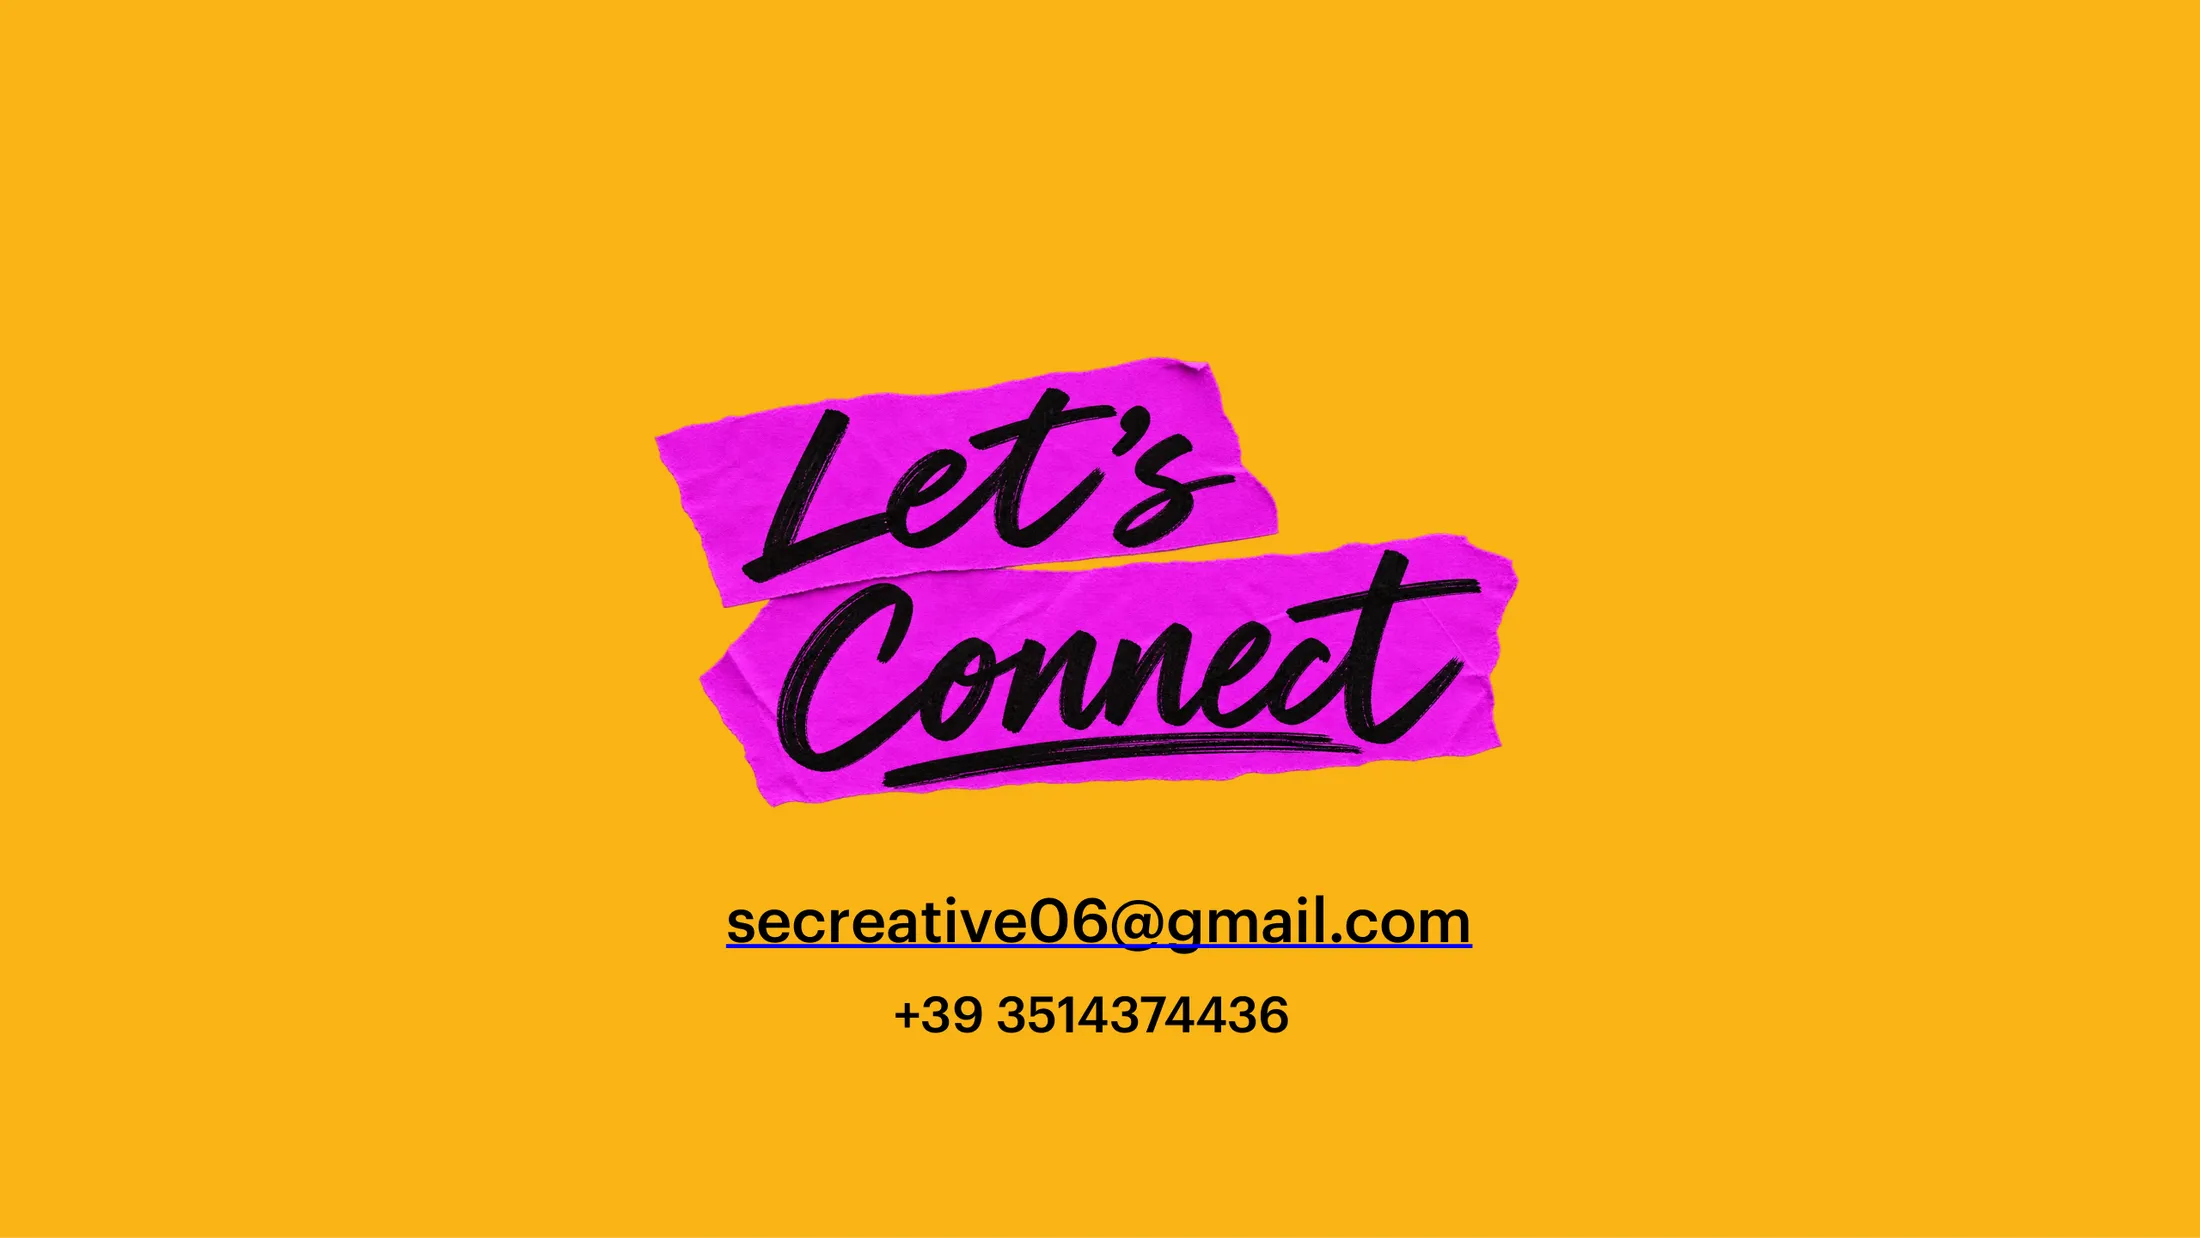
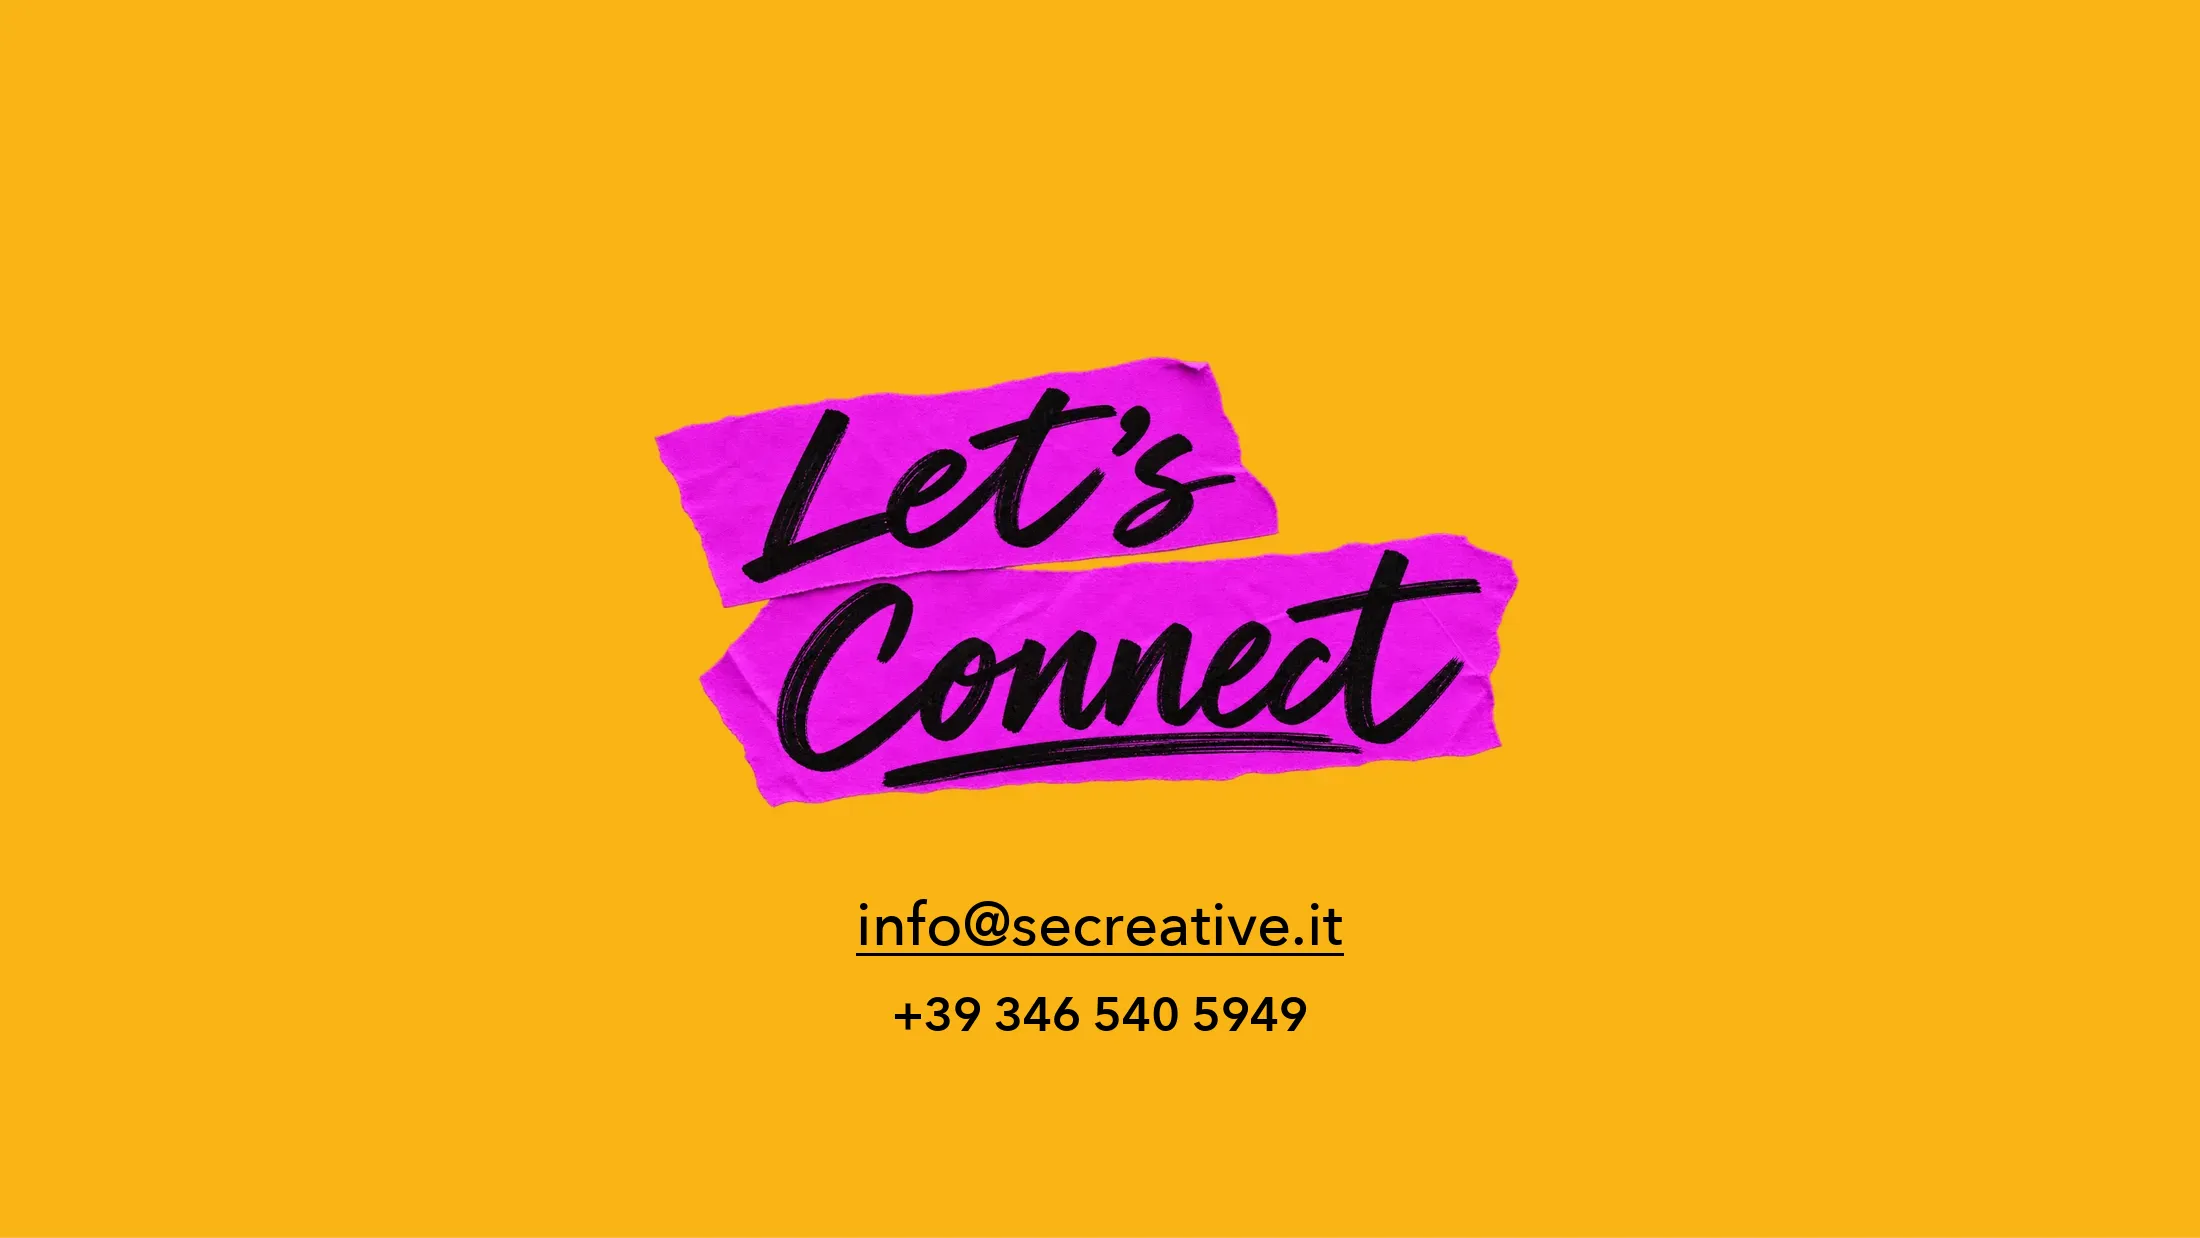
feat: numero nuovo +39 346 540 5949
Il numero sta in studio.ts e tutto il sito lo legge da li': telefono
cliccabile, WhatsApp (anche quello col messaggio precompilato) e i dati
per i motori di ricerca. Aggiornato anche il vecchio layout del deck,
che lo aveva scritto a mano.

L'ultima slide del Keynote lo mostrava stampato dentro l'immagine,
insieme all'indirizzo gmail: riscritti entrambi sulla slide, con i
caratteri dell'originale. Chi apre /deck non vede piu' recapiti vecchi.

Changed region(s): [[0.3091, 0.706, 0.68, 0.8595]]

diff --git a/src/data/studio.ts b/src/data/studio.ts
@@ -27,11 +27,11 @@ export const studio = {
      consegna le richieste. Nel Keynote (slide 36) c'era ancora un indirizzo
      gmail, ma non si usa più. */
   email: 'info@secreative.it',
-  telefono: '+39 351 437 4436',
-  telefonoRaw: '+393514374436',
+  telefono: '+39 346 540 5949',
+  telefonoRaw: '+393465405949',
 
   /* wa.me vuole il numero senza + e senza spazi */
-  whatsapp: '393514374436',
+  whatsapp: '393465405949',
 
   /* solo il nome utente: il «?igsi=…» dei link condivisi è un codice di
      tracciamento e non serve a raggiungere il profilo */
